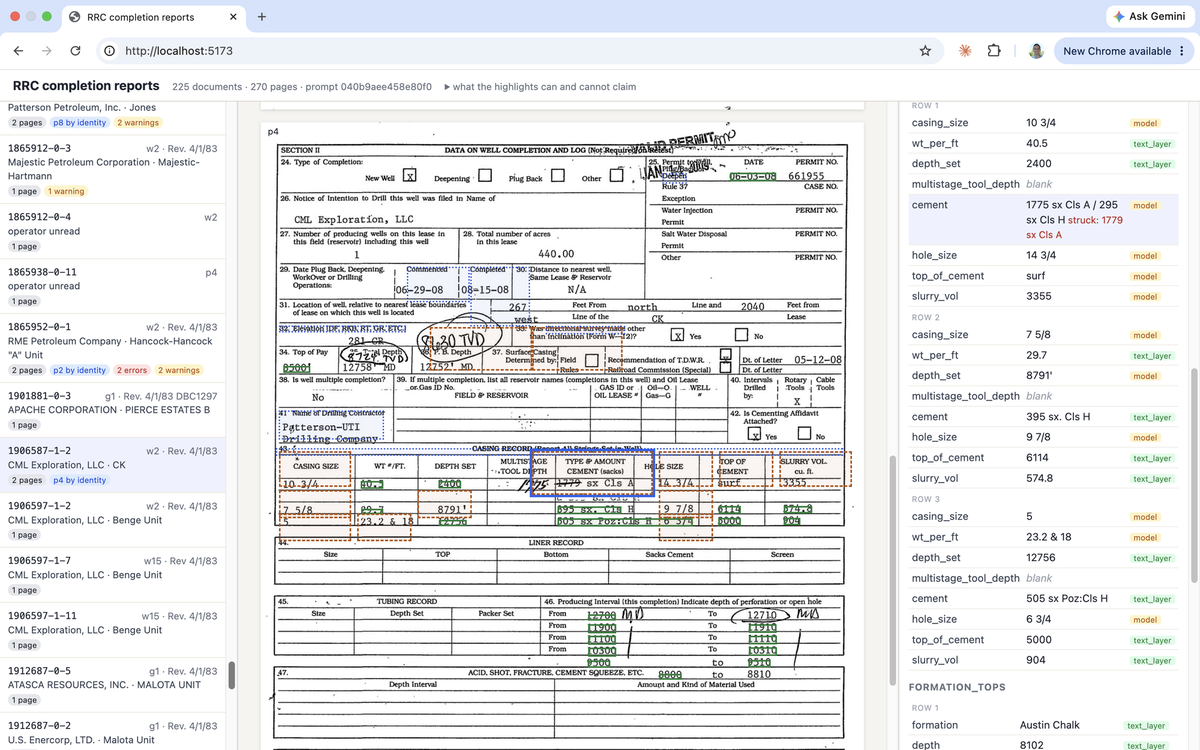
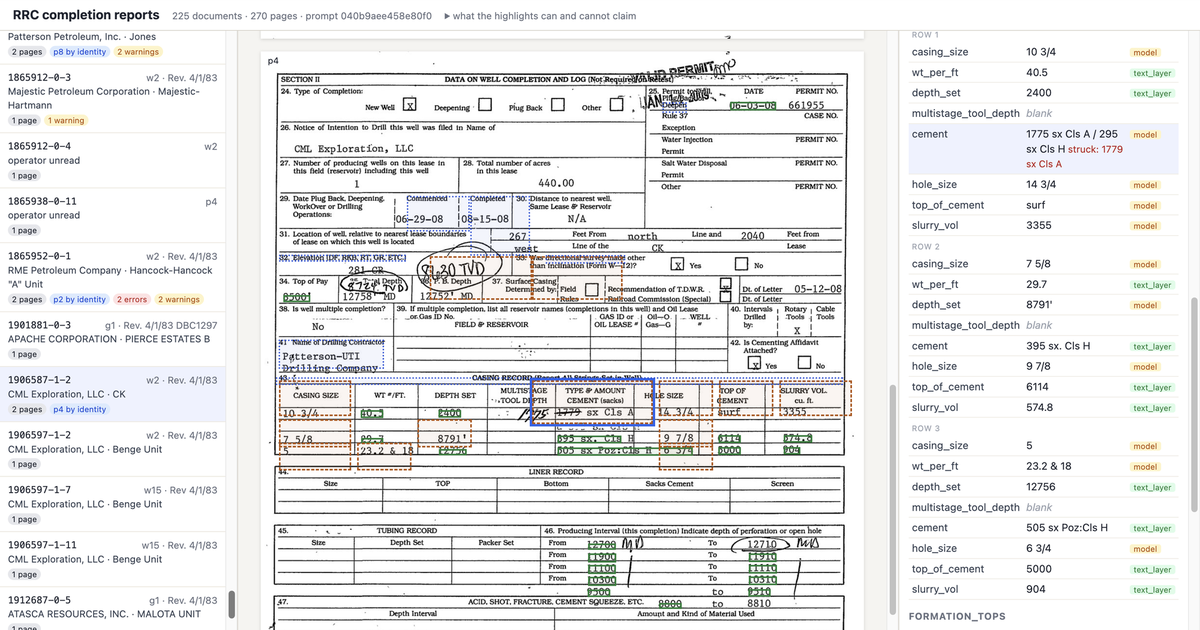
crop the card image to 1200x630 so nothing is trimmed by the scraper
The previous image kept the browser chrome and the screenshot's own 1.60:1
frame, which left the card's crop up to whoever rendered it. Cropped 118px
off the top, which is exactly the tab strip and the address bar, and 82px
off the bottom, which lands on 2000x1050 and scales to 1200x630 with no
distortion. The viewer's own header is now the top row of the card.

og:image:height follows to 630. It was 750 and would have described the
image wrongly.

diff --git a/viewer/index.html b/viewer/index.html
@@ -25,7 +25,7 @@
       content="https://alexspili.github.io/rrc-pipeline/og-preview.png"
     />
     <meta property="og:image:width" content="1200" />
-    <meta property="og:image:height" content="750" />
+    <meta property="og:image:height" content="630" />
     <meta property="og:url" content="https://alexspili.github.io/rrc-pipeline/" />
     <meta property="og:type" content="website" />
     <meta name="twitter:card" content="summary_large_image" />
